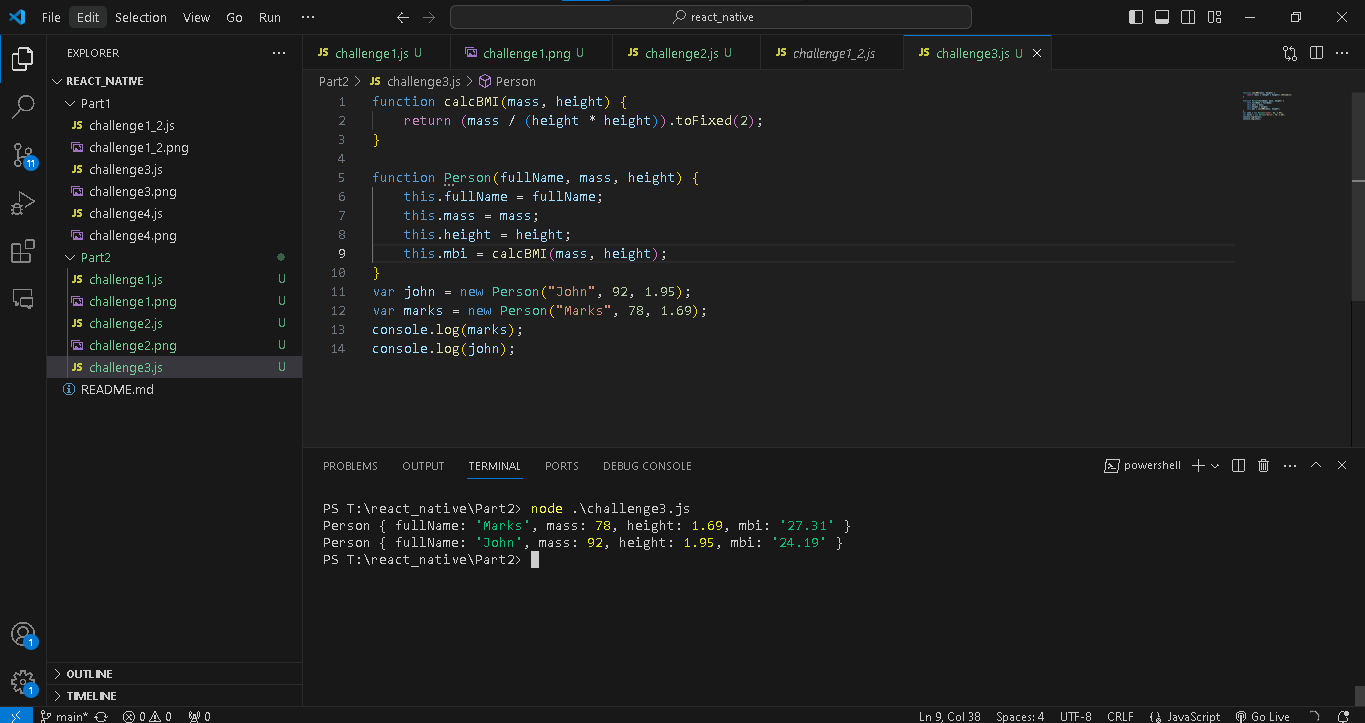
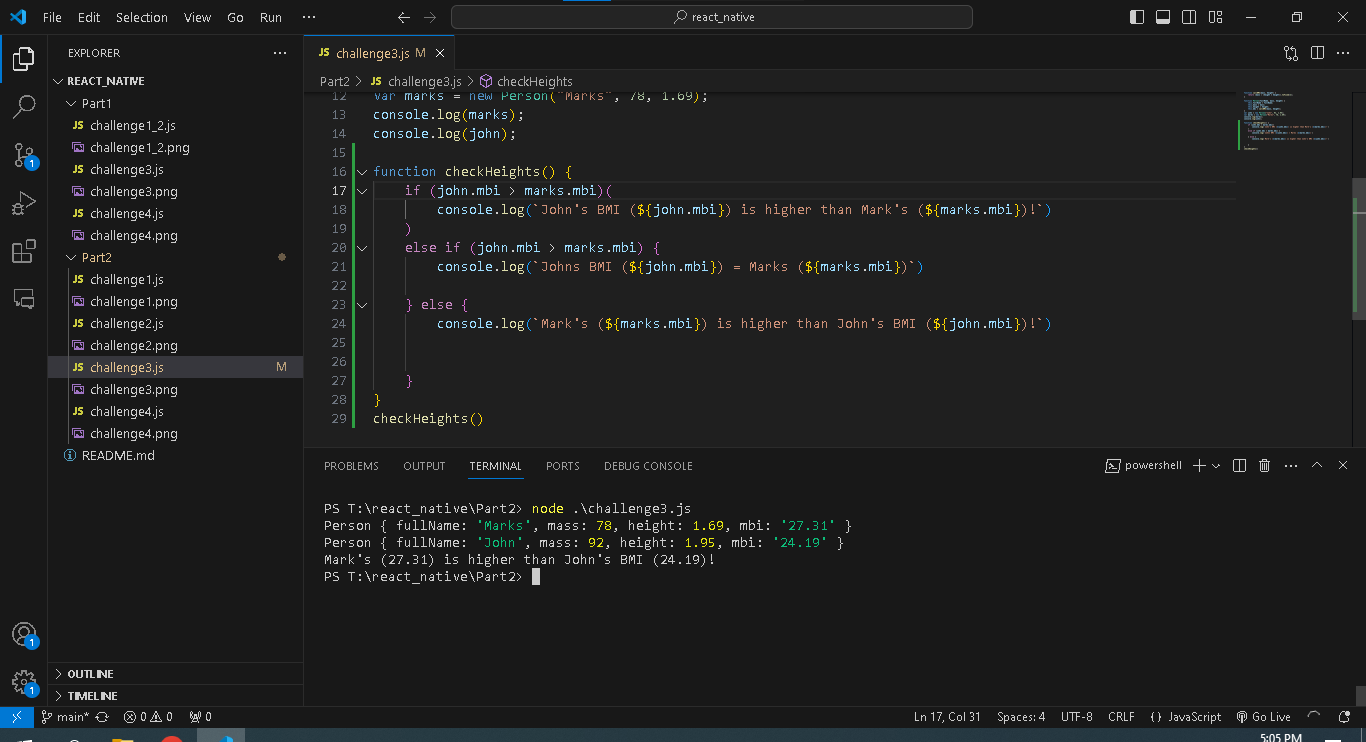
update code c3

diff --git a/Part2/challenge3.js b/Part2/challenge3.js
@@ -12,3 +12,18 @@ var john = new Person("John", 92, 1.95);
 var marks = new Person("Marks", 78, 1.69);
 console.log(marks);
 console.log(john);
+
+function checkHeights() {
+    if (john.mbi > marks.mbi)(
+        console.log(`John's BMI (${john.mbi}) is higher than Mark's (${marks.mbi})!`)
+    )
+    else if (john.mbi > marks.mbi) {
+        console.log(`Johns BMI (${john.mbi}) = Marks (${marks.mbi})`)
+
+    } else {
+        console.log(`Mark's (${marks.mbi}) is higher than John's BMI (${john.mbi})!`)
+
+
+    }
+}
+checkHeights()
